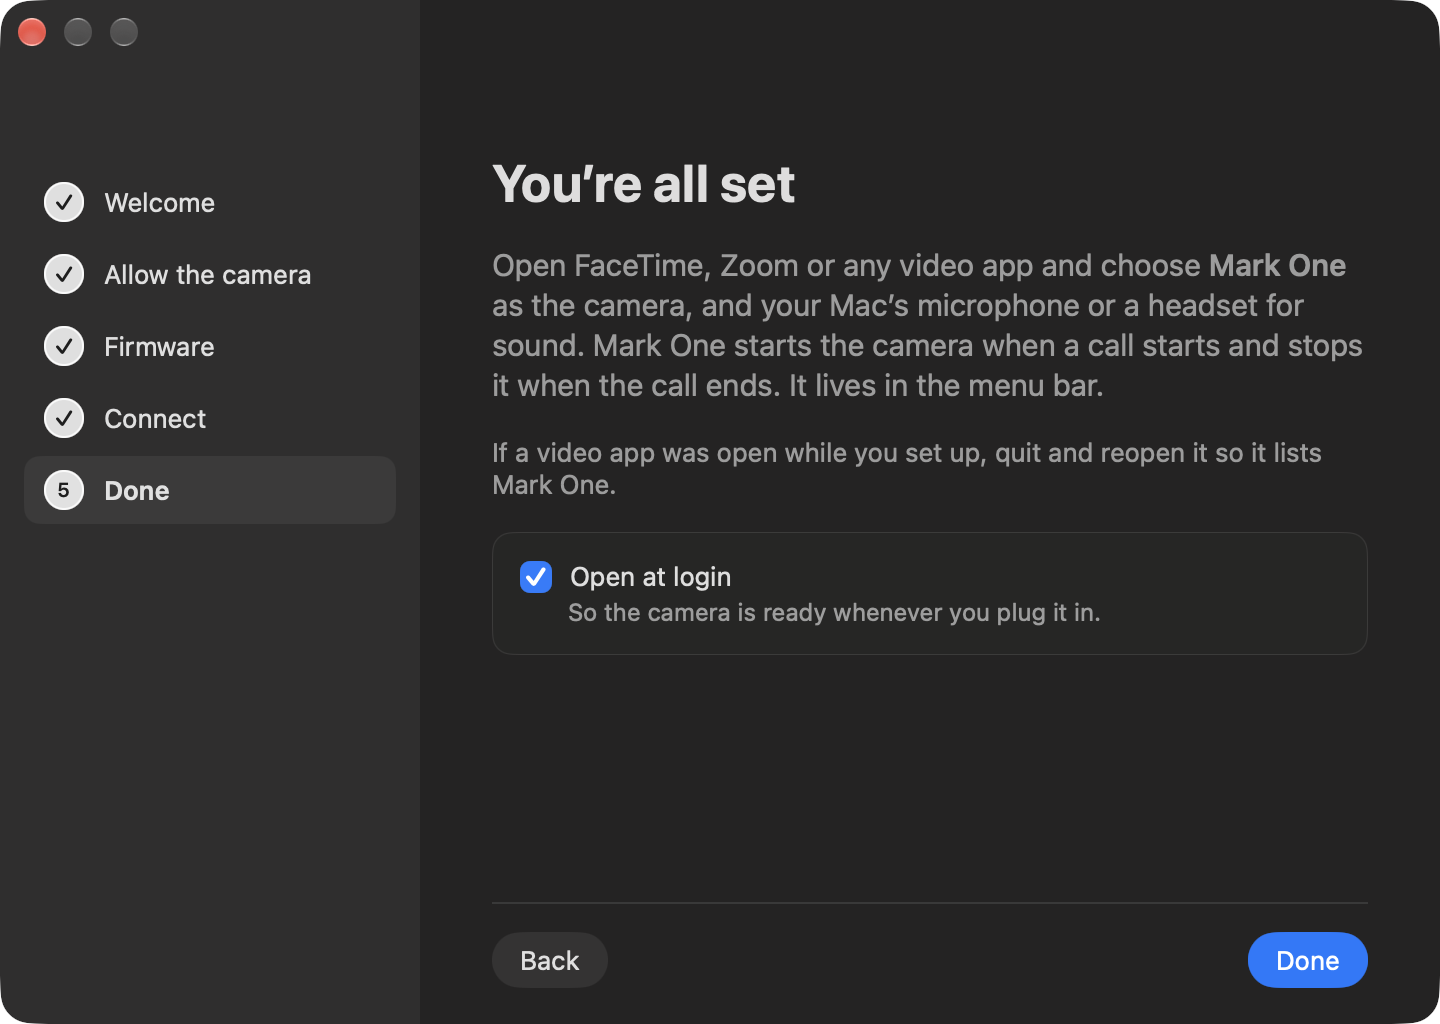
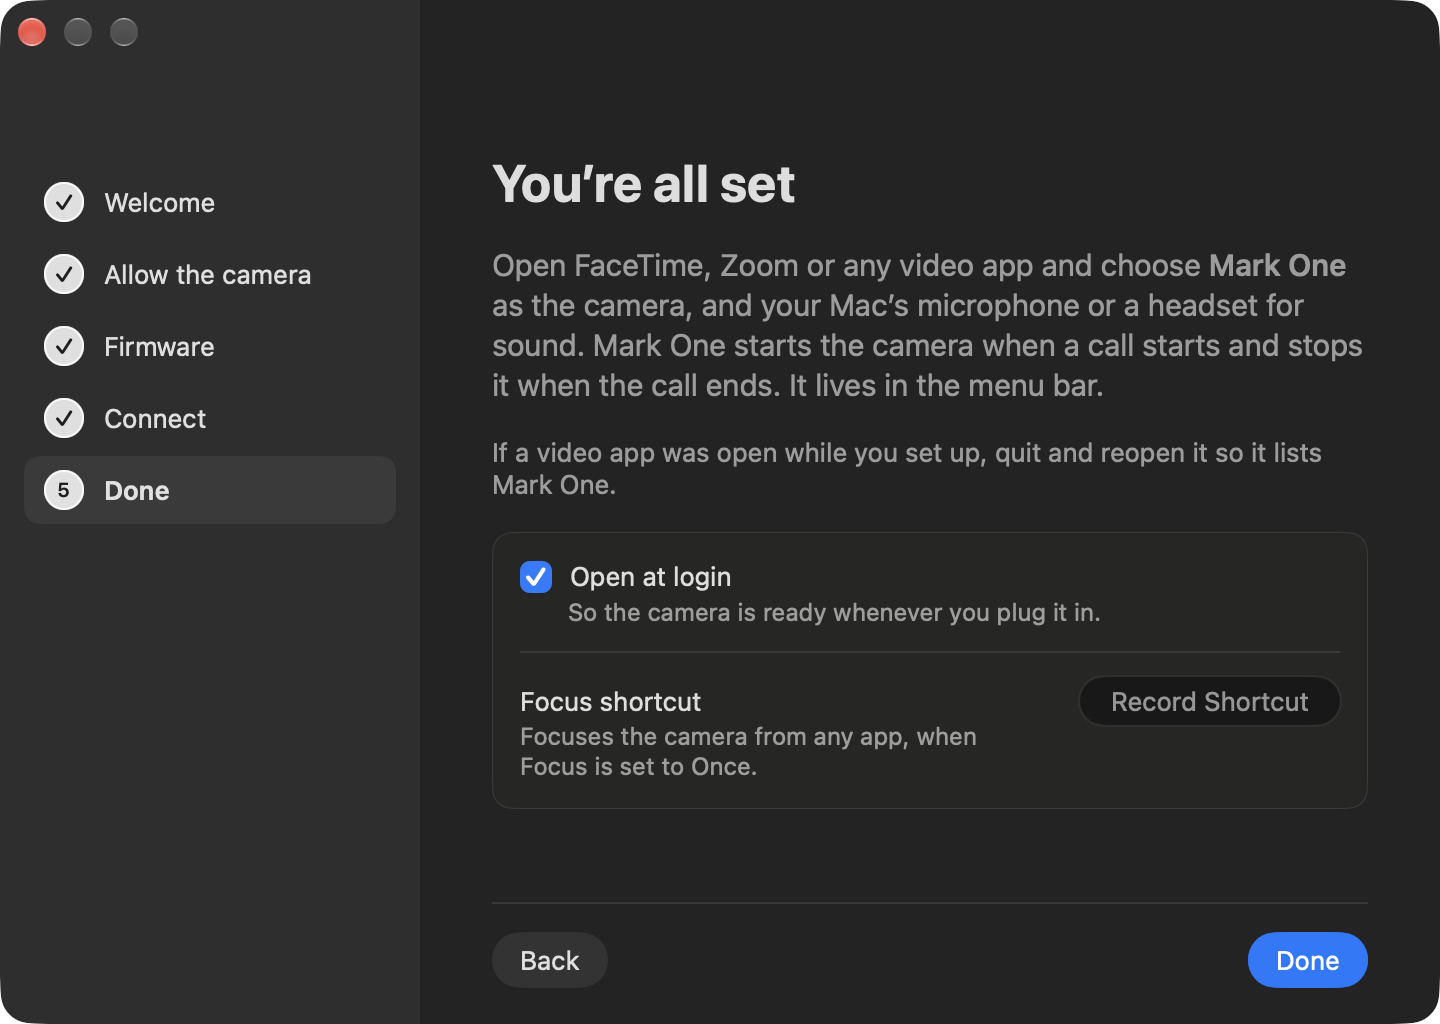
Mark One: Set the Focus shortcut in the welcome window's last step

Changed region(s): [[0.3438, 0.6562, 0.6875, 0.7812], [0.7812, 0.6562, 0.9062, 0.7188]]

diff --git a/mac/MarkOne/App/Views/WelcomeView.swift b/mac/MarkOne/App/Views/WelcomeView.swift
@@ -3,6 +3,7 @@
 // finds a camera without the right firmware.
 
 import AppKit
+import KeyboardShortcuts
 import SwiftUI
 
 @MainActor
@@ -430,12 +431,26 @@ struct WelcomeView: View {
                 .fixedSize(horizontal: false, vertical: true)
                 .frame(maxWidth: 440, alignment: .leading)
             Card(padding: 14) {
-                VStack(alignment: .leading, spacing: 2) {
-                    OpenAtLoginToggle(labelGap: 4)
-                    Text("So the camera is ready whenever you plug it in.")
-                        .font(.callout)
-                        .foregroundStyle(.secondary)
-                        .padding(.leading, 24)
+                VStack(alignment: .leading, spacing: 12) {
+                    VStack(alignment: .leading, spacing: 2) {
+                        OpenAtLoginToggle(labelGap: 4)
+                        Text("So the camera is ready whenever you plug it in.")
+                            .font(.callout)
+                            .foregroundStyle(.secondary)
+                            .padding(.leading, 24)
+                    }
+                    Divider()
+                    HStack(alignment: .firstTextBaseline, spacing: 12) {
+                        VStack(alignment: .leading, spacing: 2) {
+                            Text("Focus shortcut")
+                            Text("Focuses the camera from any app, when Focus is set to Once.")
+                                .font(.callout)
+                                .foregroundStyle(.secondary)
+                                .fixedSize(horizontal: false, vertical: true)
+                        }
+                        Spacer(minLength: 0)
+                        KeyboardShortcuts.Recorder(for: .focus)
+                    }
                 }
             }
         }
